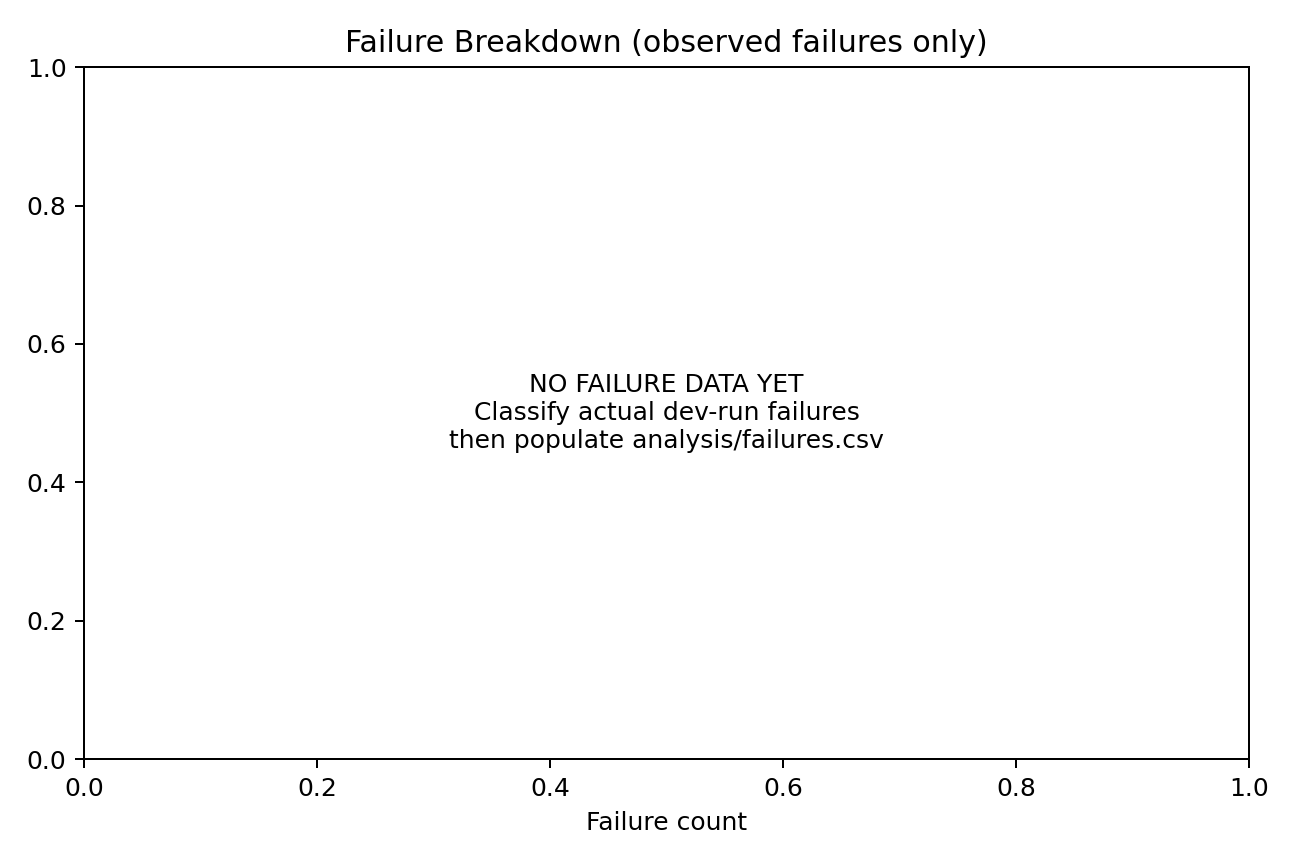
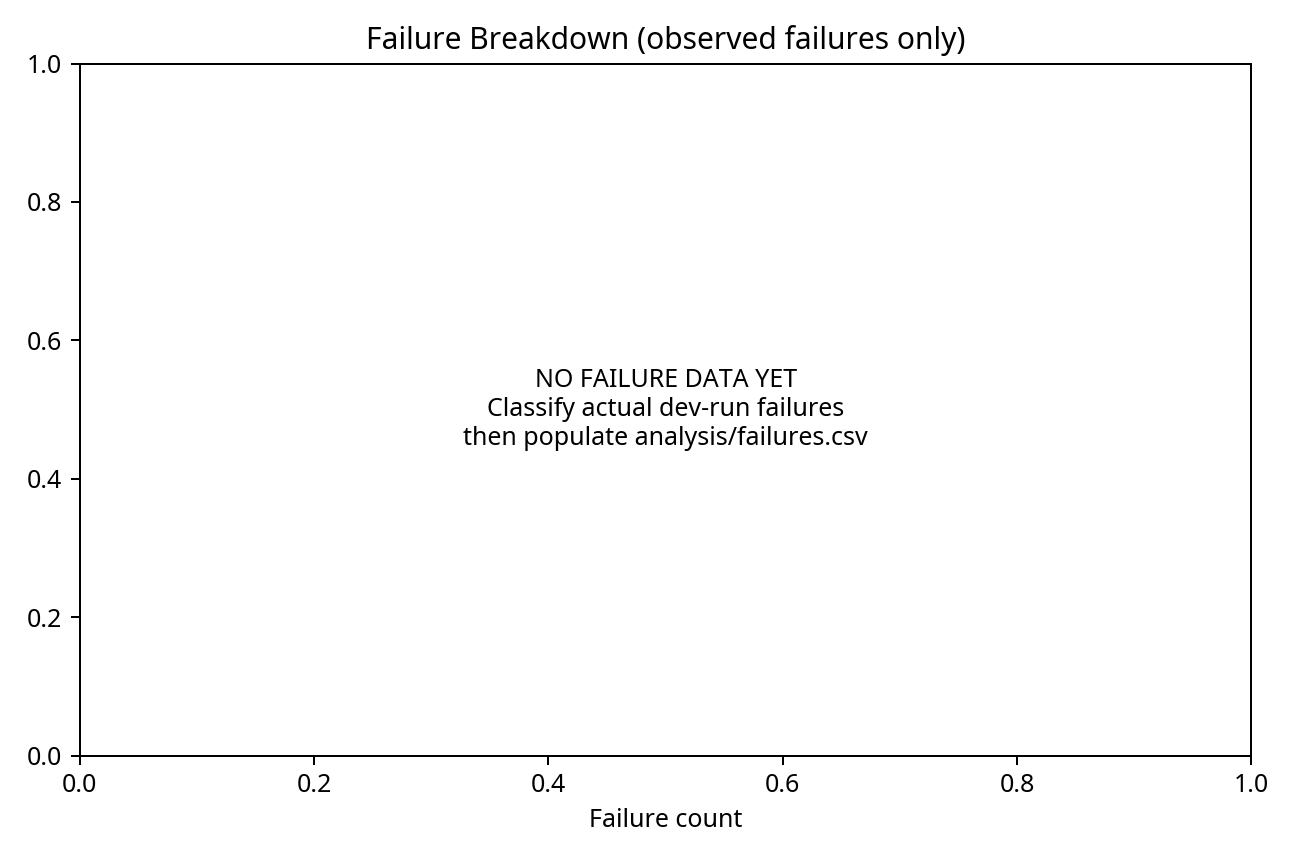
Fix validation dependencies and status record

diff --git a/VALIDATION_STATUS.md b/VALIDATION_STATUS.md
@@ -4,23 +4,29 @@ Last updated: 2026-11-25 UTC
 
 ## Local verification
 - `python -m compileall -q .` — PASS
-- `python scripts/check_entry.py` — PASS (10/10 structural/model/license checks)
+- `python scripts/check_entry.py` — PASS (15/15 structural, model, license, asset, and writeup checks)
 - `python tests_unit.py` — PASS (MCP SSE multiline/session handling and catalog search)
 - `python tests_context.py` — PASS (history compression retains task, summary, recent turn, and usage accounting)
 - `python tests_cancel.py` — PASS (cancel frame during tool call; best-effort `done` returned)
 - `python tests_smoke.py` — PASS (mocked model: tool call, evaluator protocol exchange, final audit, done; 3 model calls)
-- `python analysis/plot_results.py` — PASS (placeholder figures are generated; explicitly state no dev measurements)
-- `submission.yaml` — model API selected as `google-cloud/gemini-4-neon`; listed in current official model catalog. Model choice has not been benchmarked by NORTHSTAR.
-- Cover asset — generated, copied to `media/cover.jpg` for Kaggle Media Gallery.
-- Architecture — implementation diagram regenerated and visually inspected.
-- Writeup draft — created; currently under 2,000 words, but contains placeholders and explicit pending-evaluation disclosure.
+- `python analysis/plot_results.py` — PASS (placeholder figures are generated; empty datasets are explicitly marked)
+- `submission.yaml` — model API selected as `google-cloud/gemini-4-neon`; listed in the current official model catalog. Model choice has not been benchmarked by NORTHSTAR.
+- Cover asset — present in `media/cover.jpg` for the Kaggle Media Gallery.
+- Architecture — implementation diagram present under `figures/`.
+- Writeup draft — present and under the 2,000-word cap; it contains placeholders and explicit pending-evaluation disclosure.
+
+## Repository and CI
+- Public GitHub repository — PASS: `https://github.com/nsc-ui/NORTHSTAR-PLE`
+- Git bundle — present as `NORTHSTAR-PLE.bundle`.
+- Docker runtime — configured with `Dockerfile`, `compose.yaml`, `.dockerignore`, and `.env.example`.
+- GitHub Actions — PASS: CI workflow completed successfully for commit `264e67e93d329650ee38642b9e9ce44aa3a29ab7`.
+- Docker image build — not run locally because Docker is unavailable in this sandbox; the CI workflow includes a Docker build job.
 
 ## Official minimum checks: NOT PASSED / BLOCKED
-- `uv run python -m kit check NORTHSTAR-PLE` — BLOCKED: official PLE repository/kit is absent, Docker is not installed, and `python -m kit` is unavailable.
-- `uv run python eval/run.py NORTHSTAR-PLE` — BLOCKED: official evaluator is absent, gated HF dataset access/token is not configured, and local model proxy/API credentials are not configured.
+- `uv run python -m kit check NORTHSTAR-PLE` — BLOCKED: the official PLE repository/kit is absent from this environment, Docker is unavailable locally, and `python -m kit` is unavailable.
+- `uv run python eval/run.py NORTHSTAR-PLE` — BLOCKED: the official evaluator is absent, gated HF dataset access/token is not configured, and local model proxy/API credentials are not configured.
 - `uv run python -m kit artifacts NORTHSTAR-PLE` — NOT RUN: official `artifacts/` have not been generated.
 - `uv run python eval/run.py --artifacts NORTHSTAR-PLE` — NOT RUN: no official artifacts exist.
-- Public GitHub repository — NOT CREATED: the connected GitHub account currently has no repositories listed and the connector exposes no repository-creation action. Local Git repository exists.
-- Kaggle Writeup — NOT SUBMITTED: no Kaggle writeup submission action available.
+- Kaggle Writeup — NOT SUBMITTED: no Kaggle submission action is available in this environment.
 
 No PLE scores, measured costs, task-level failures, or official pass claims are included. Do not submit until the blocked checks and artifacts are completed in the official environment.
